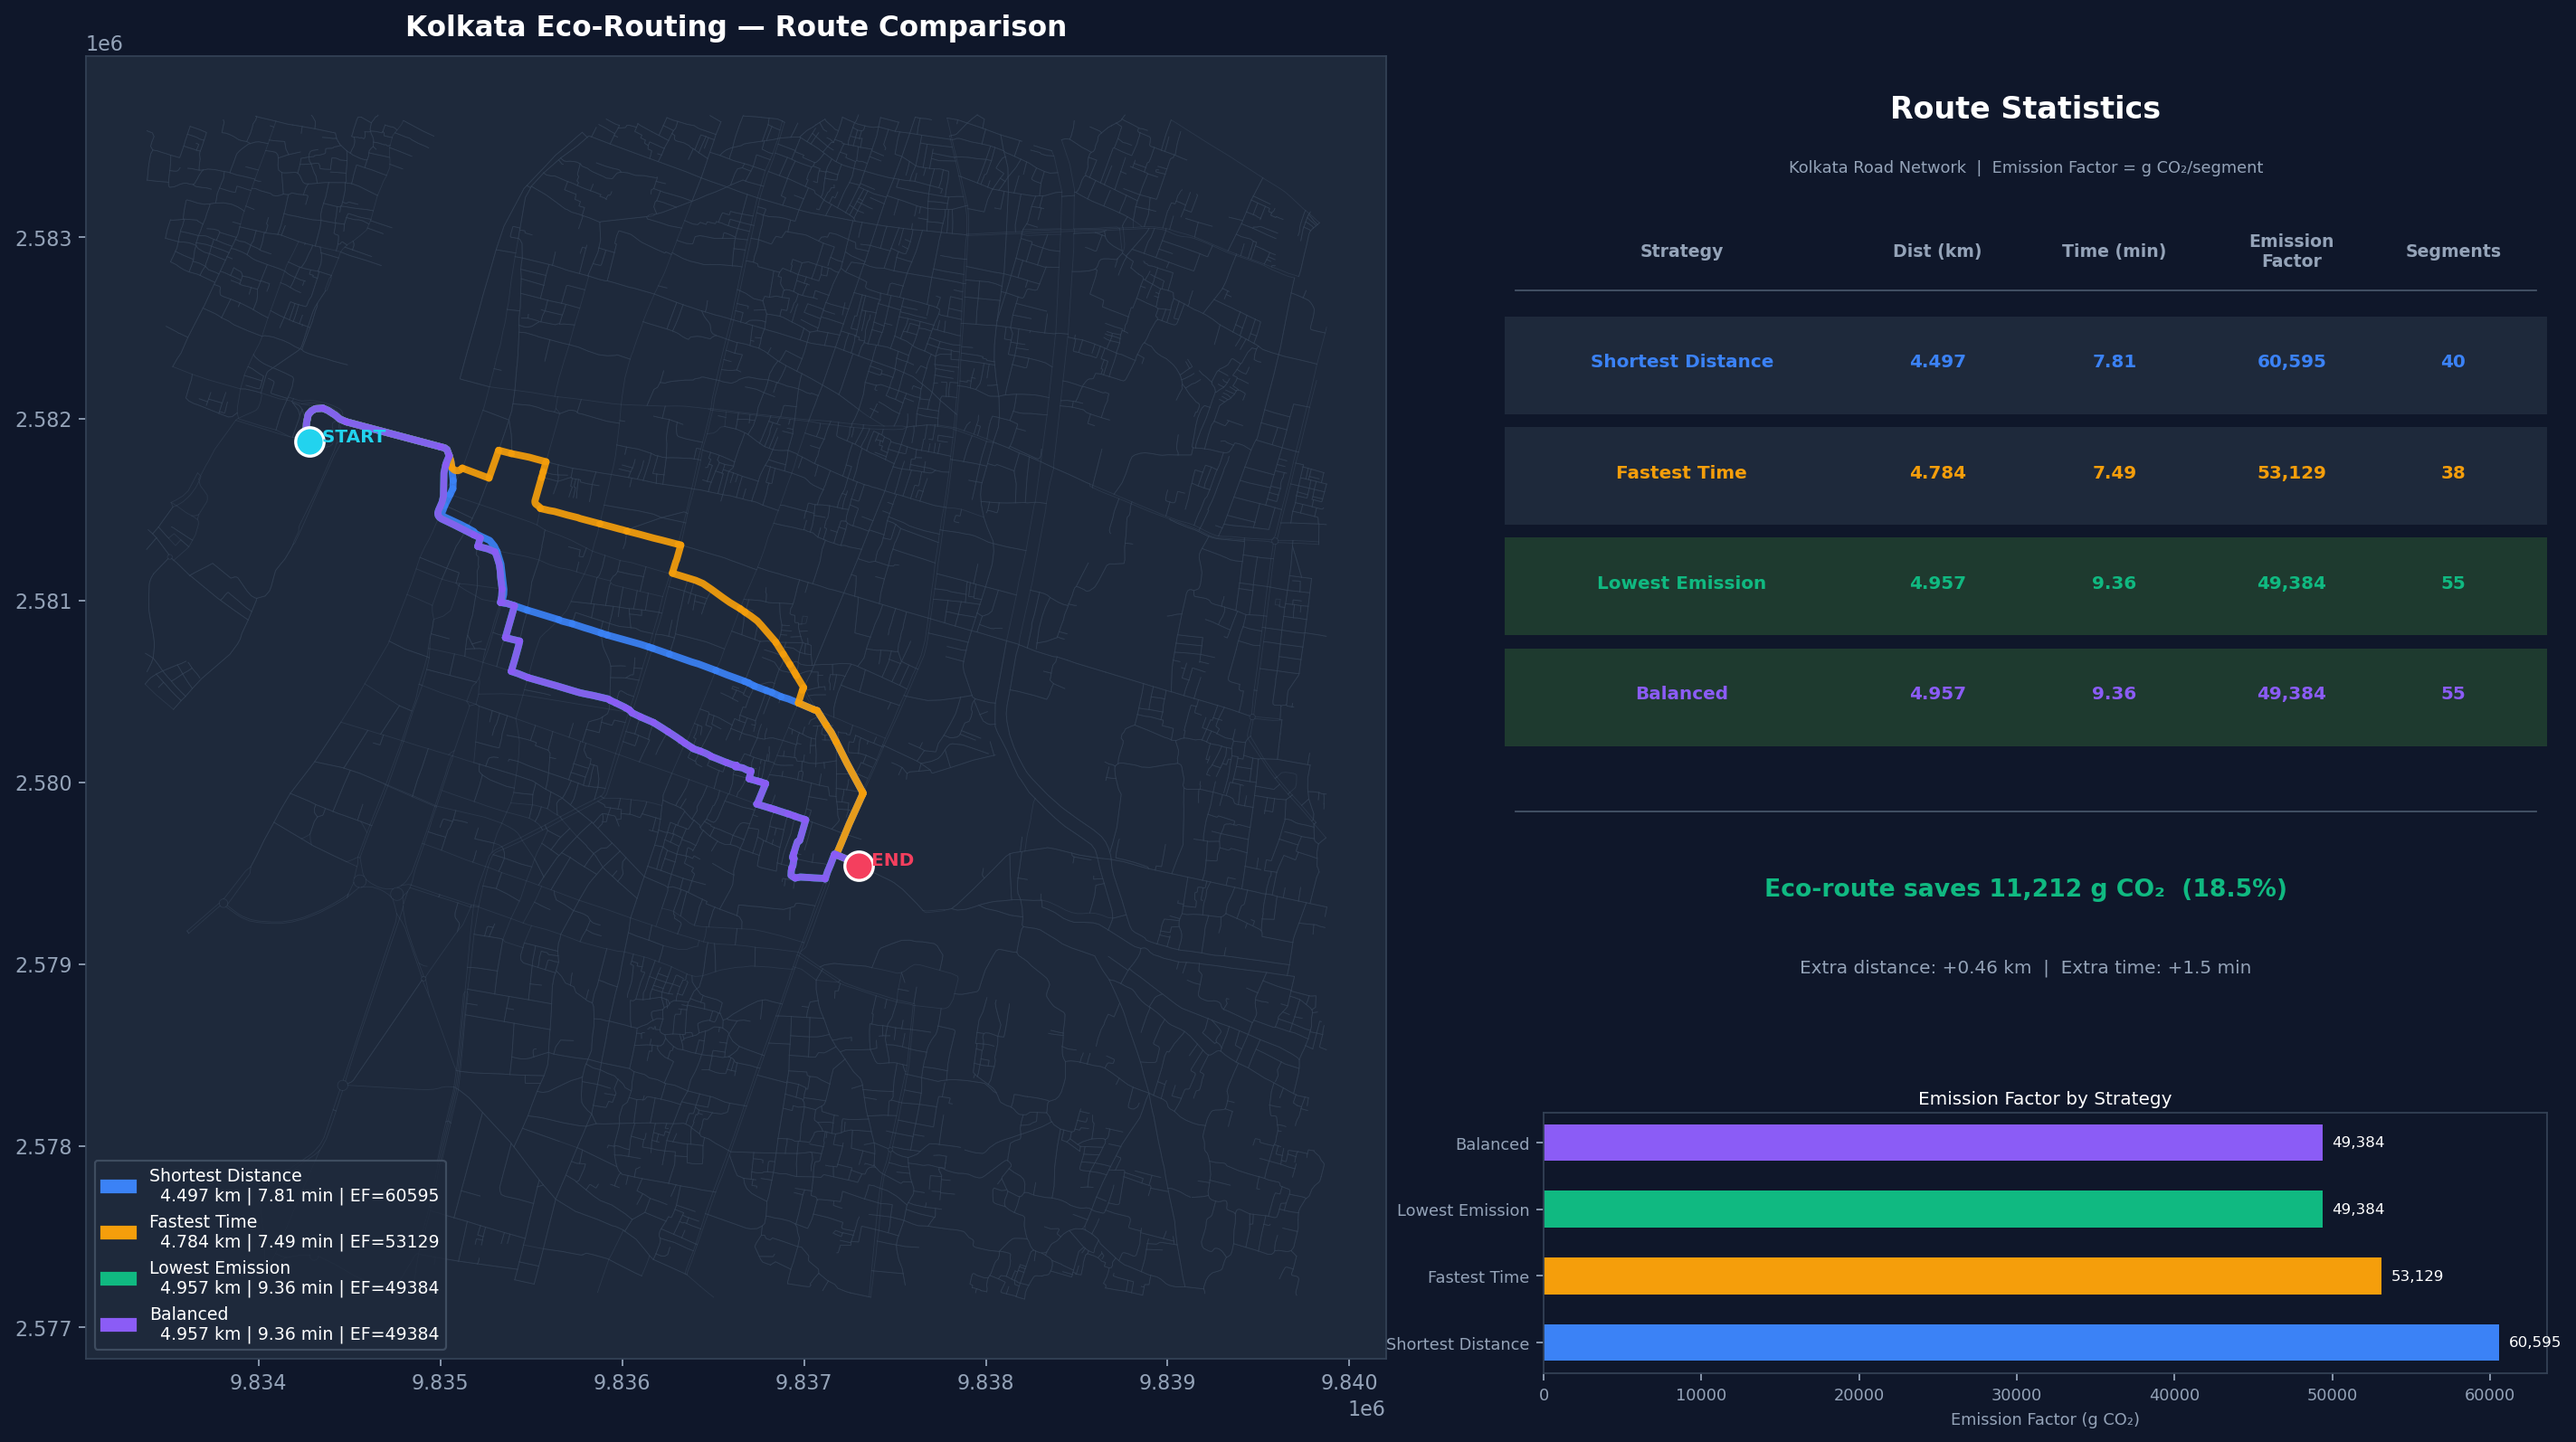
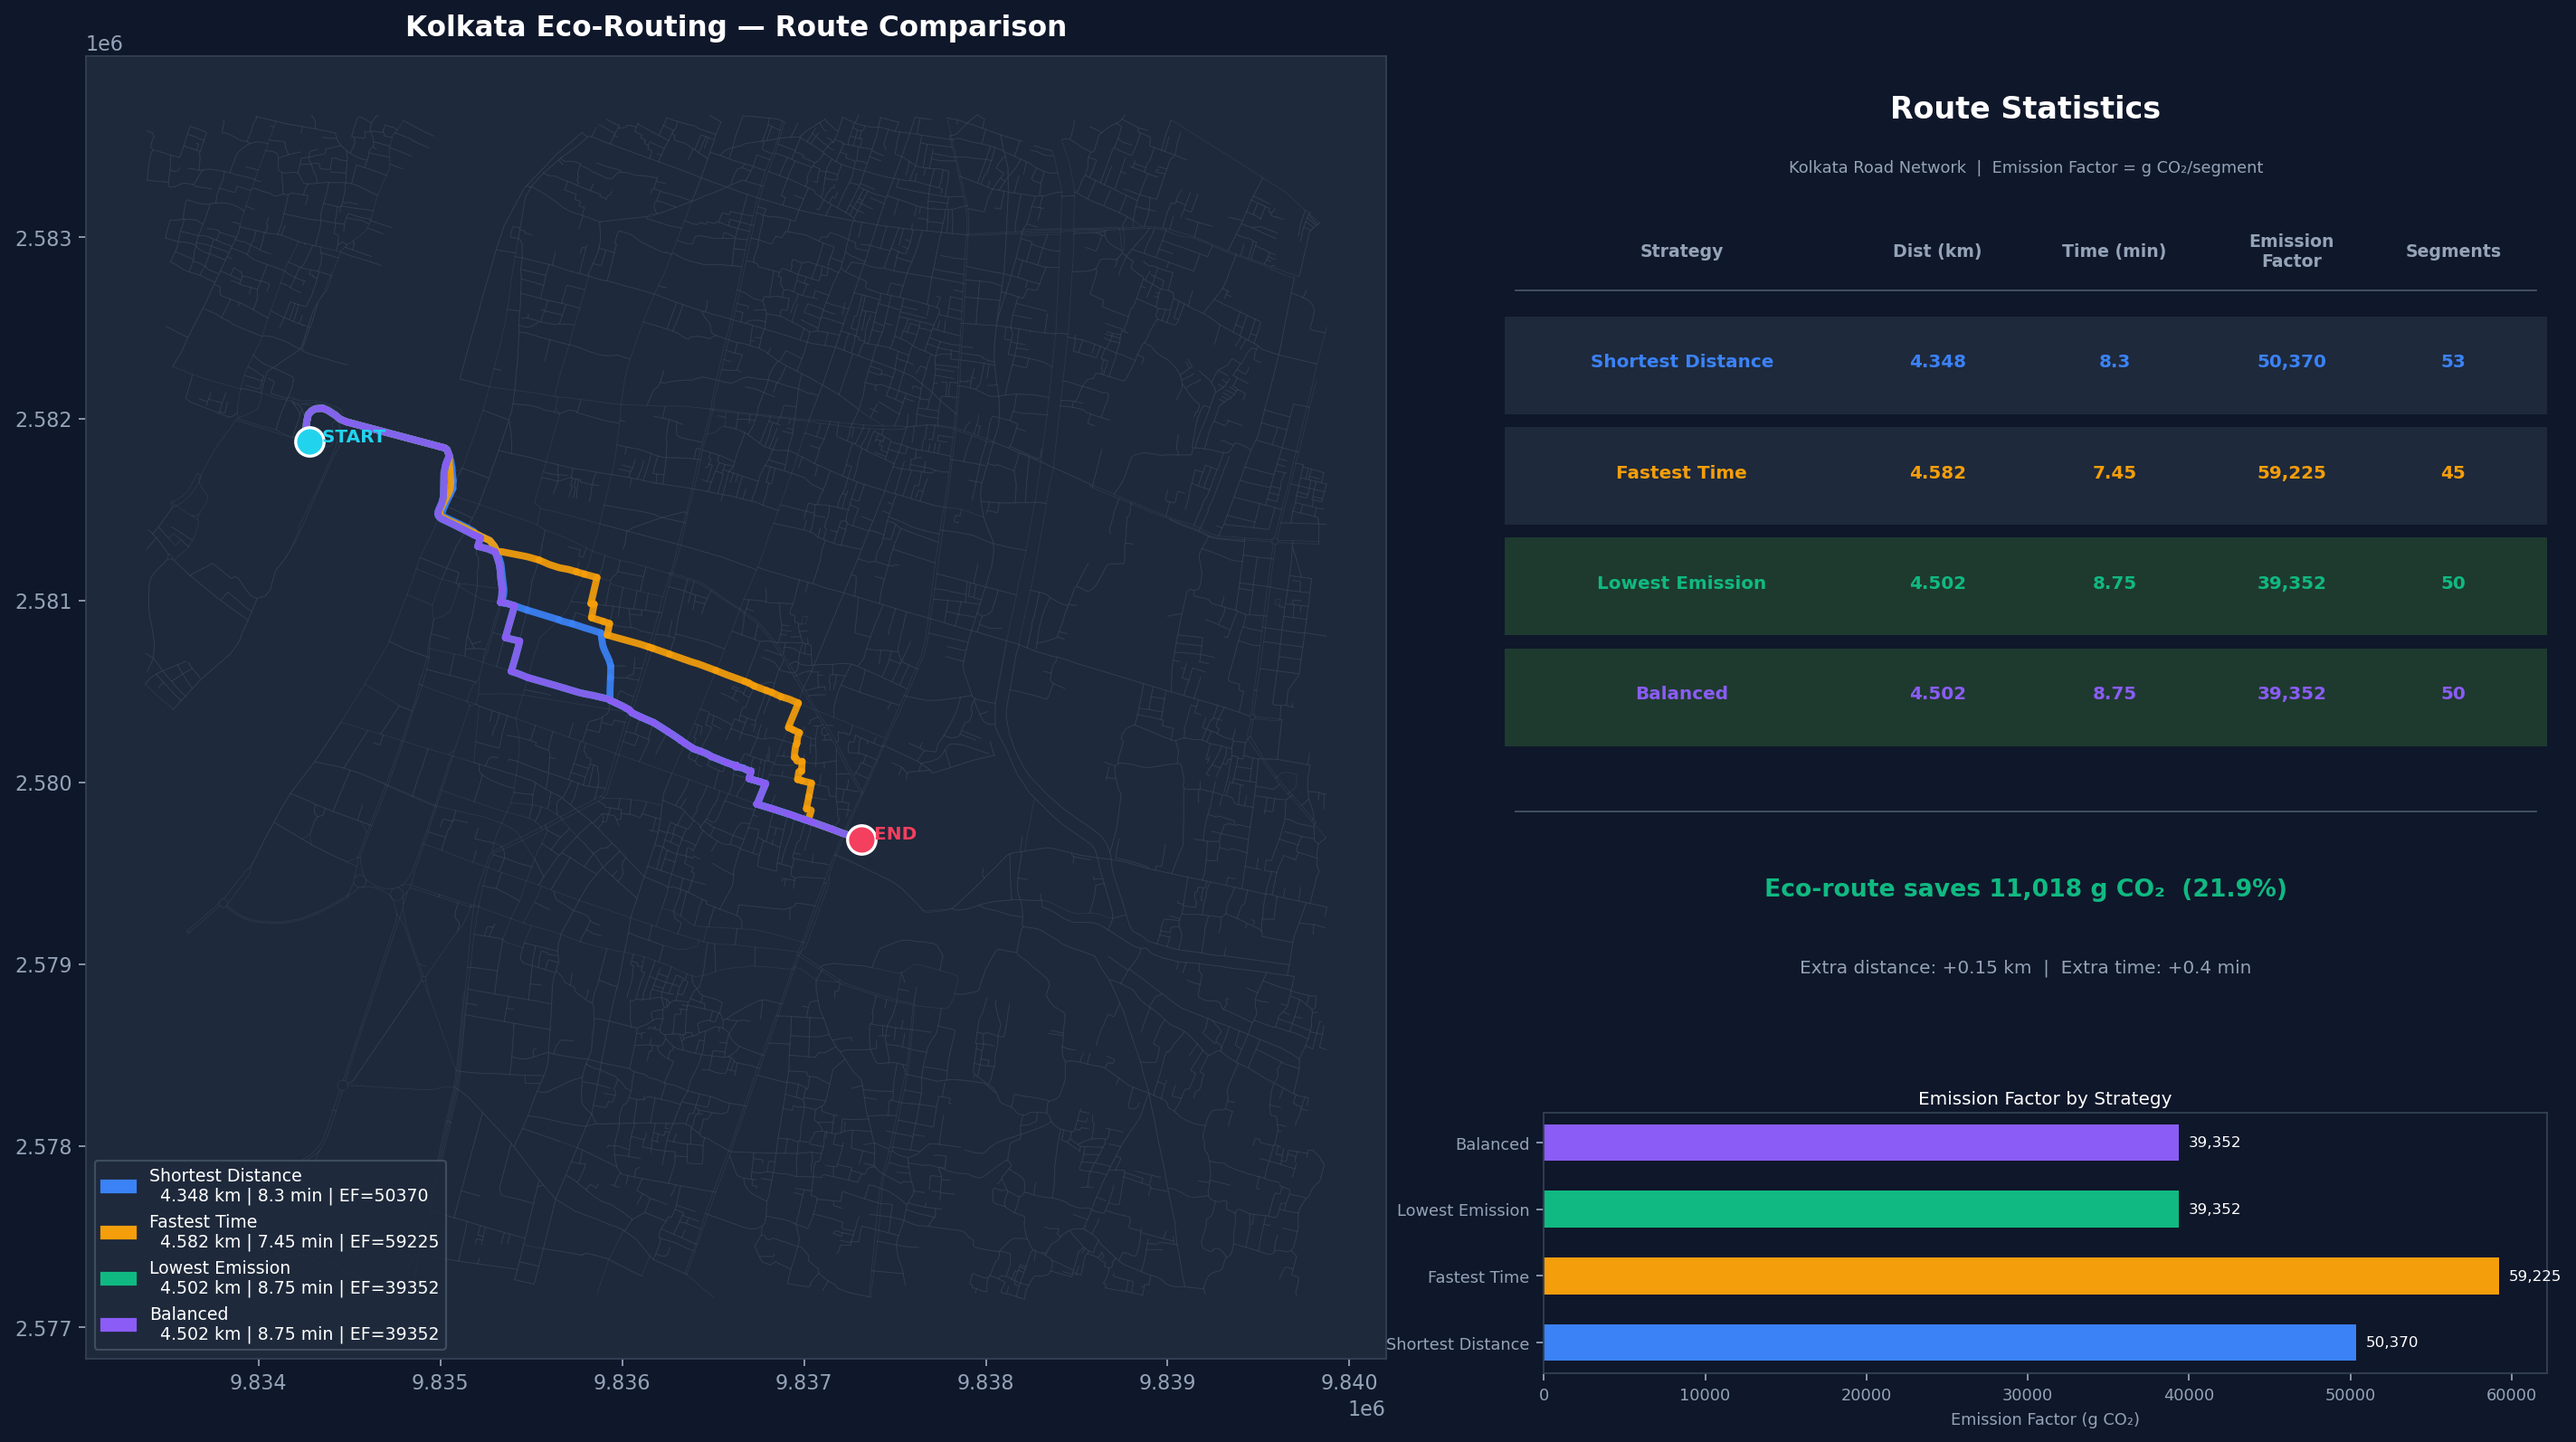
refactor: remove CO₂ emission data displays from map popups, sidebar, and summary stats

diff --git a/index.html b/index.html
@@ -2330,10 +2330,7 @@
     <div style="display:flex;justify-content:space-between;align-items:center;margin-bottom:5px;">
       <span style="color:var(--cyan);font-weight:700;">🚗 ${info.total} vehicles</span>${srcBadge}
     </div>
-    <div style="display:grid;grid-template-columns:repeat(${Math.min(Object.keys(info.counts).length, 4)},1fr);gap:4px;margin-bottom:5px;">${countsHtml}</div>
-    <div style="background:linear-gradient(135deg,rgba(34,211,238,.08),rgba(16,185,129,.08));border:1px solid var(--cyan);border-radius:6px;padding:5px;text-align:center;">
-      <div style="font-size:.82rem;font-weight:800;color:var(--cyan);">${info.co2.toLocaleString()} g CO₂/km</div>
-    </div>${thumbHtml}`;
+    <div style="display:grid;grid-template-columns:repeat(${Math.min(Object.keys(info.counts).length, 4)},1fr);gap:4px;margin-bottom:5px;">${countsHtml}</div>${thumbHtml}`;
     }
 
     function updateEvaluateBtn() {
@@ -2399,7 +2396,6 @@
             </div>
           </div>
           <div class="seg-stats">
-            <div class="seg-ef">${seg.emission_factor.toLocaleString()} g CO₂</div>
           </div>
         </div>
         <div class="seg-actions">
@@ -2451,7 +2447,7 @@
           : seg.emission_factor > maxEf * 0.4 ? 'medium' : 'low';
         const marker = L.marker(seg.midpoint, { icon: makeSegmentIcon(level) })
           .addTo(map)
-          .bindPopup(`<b>${seg.name}</b><br/>${seg.highway}<br/>EF: ${seg.emission_factor.toLocaleString()} g CO₂`);
+          .bindPopup(`<b>${seg.name}</b><br/>${seg.highway}`);
         segmentMarkers.push(marker);
       });
 
@@ -2527,7 +2523,6 @@
       <span style="color:var(--cyan);font-weight:700;font-size:.8rem;">🚗 ${data.total_vehicles} vehicles detected</span>
       ${srcBadge}
     </div>
-    <div style="color:var(--muted);font-size:.65rem;margin-top:2px;">${(data.co2_per_km_g || 0).toLocaleString()} g CO₂/km estimated</div>
     ${thumbHtml}`;
     }
 
@@ -2773,8 +2768,7 @@
 
         baseLayer.bindPopup(
           `<b style="color:${color}">${name}</b>${name === data.best_route ? ' ⭐ BEST ECO' : ''}<br/>
-       ${data.stats[name]?.distance_km || "?"} km | ${data.stats[name]?.time_min || "?"} min<br/>
-       CO₂ Emissions: <b>${(data.stats[name]?.trip_co2_g || 0).toLocaleString(undefined, { maximumFractionDigits: 0 })} g</b>`
+       ${data.stats[name]?.distance_km || "?"} km | ${data.stats[name]?.time_min || "?"} min`
         );
 
         // Clicking on a route line highlights it
@@ -2801,8 +2795,7 @@
 
               segLayer.bindPopup(
                 `<b style="color:${color}">${name}</b> (${seg.name})<br/>
-             Speed: <b>${seg.avg_speed_kmh} km/h</b> (${seg.speed_category.toUpperCase()})<br/>
-             Segment CO₂: <b>${seg.emission_factor} g</b>`
+             Speed: <b>${seg.avg_speed_kmh} km/h</b> (${seg.speed_category.toUpperCase()})`
               );
               routeLayers.push(segLayer);
             }
@@ -2837,18 +2830,18 @@
         // Update sidebar savings
         savingsBox.innerHTML = `
       <div class="savings-banner">
-        <div class="savings-val">${saved.toLocaleString(undefined, { maximumFractionDigits: 0 })} g CO₂ saved</div>
-        <p>Eco-route vs shortest · ${pct}% less emissions</p>
+        <div class="savings-val">Eco-Route Selected</div>
+        <p>Optimized for lower environmental impact</p>
         <p style="margin-top:4px;">+${extraKm} km | +${extraMin} min extra</p>
       </div>`;
 
         // Update floating card savings
         if (saved > 0 && currentVehicleType !== "ev" && currentVehicleType !== "bicycle") {
-          document.getElementById("summary-savings-text").textContent = `Eco-Route Saves ${saved.toLocaleString(undefined, { maximumFractionDigits: 0 })}g CO₂`;
-          document.getElementById("summary-savings-desc").textContent = `vs shortest route (${pct}% less emissions)`;
+          document.getElementById("summary-savings-text").textContent = `Eco-Route Selected`;
+          document.getElementById("summary-savings-desc").textContent = `vs shortest route (more environment-friendly)`;
         } else if (currentVehicleType === "ev" || currentVehicleType === "bicycle") {
           document.getElementById("summary-savings-text").textContent = `Eco-Friendly Travel`;
-          document.getElementById("summary-savings-desc").textContent = `0 g tailpipe emissions!`;
+          document.getElementById("summary-savings-desc").textContent = `Zero tailpipe emissions!`;
         } else {
           document.getElementById("summary-savings-text").textContent = `Optimal Route Selected`;
           document.getElementById("summary-savings-desc").textContent = `Minimal emissions path active.`;
@@ -2875,8 +2868,7 @@
           </div>
           <div class="summary-route-tab-meta">
             <span>${st.distance_km} km</span> &middot; 
-            <span>${st.time_min} min</span> &middot; 
-            <span style="color:${color}; font-weight:700;">${st.trip_co2_g.toLocaleString(undefined, { maximumFractionDigits: 0 })} g</span>
+            <span>${st.time_min} min</span>
           </div>
         </div>`;
         }).join("");
@@ -2902,11 +2894,6 @@
         <div class="stats-grid">
           <div class="stat-item"><div class="stat-label">Distance</div><div class="stat-value">${st.distance_km} km</div></div>
           <div class="stat-item"><div class="stat-label">Time</div><div class="stat-value">${st.time_min} min</div></div>
-          <div class="stat-item" style="grid-column:1/-1;">
-            <div class="stat-label">Trip CO₂ Emissions</div>
-            <div class="stat-value" style="color:${color};font-size:1.05rem;">${st.trip_co2_g.toLocaleString(undefined, { maximumFractionDigits: 0 })} g</div>
-          </div>
-
           <div class="stat-item"><div class="stat-label">Segments</div><div class="stat-value">${st.segments}</div></div>
         </div>
         <!-- Per-route YOLO upload -->
